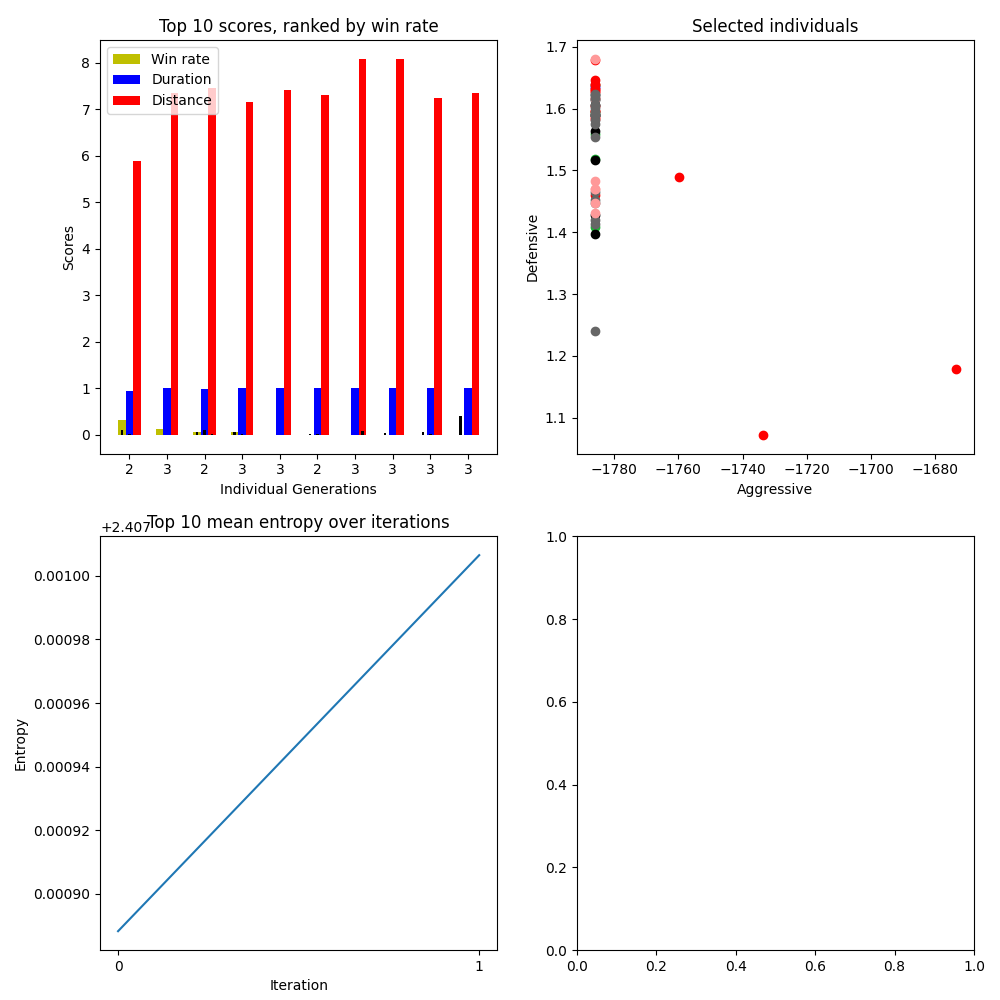
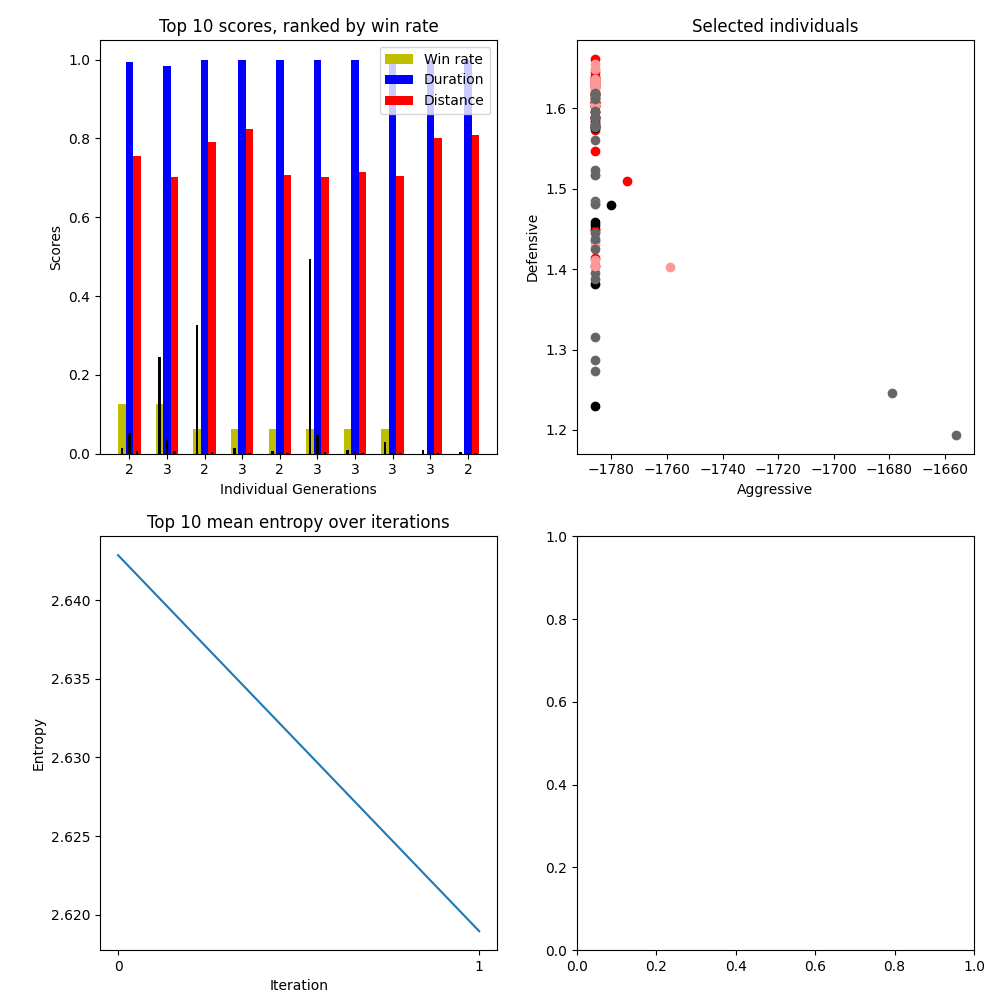
3-19

diff --git a/optimization.py b/optimization.py
@@ -19,24 +19,40 @@ def rankmin(x):
     csum[1:] = counts[:-1].cumsum()
     return csum[inv]
 
-def is_dominated(x_scores, y_scores):
+
+def is_dominated(x_scores, y_scores, epsilon):
     assert len(x_scores) == len(y_scores)
 
     for i in range(len(x_scores)):
+        if i != 0:
+            eps = 0
+        else:
+            eps = epsilon
+
         if x_scores[i] > y_scores[i]:
-            return True
-        elif x_scores[i] < y_scores[i]:
             return False
+        elif x_scores[i] * (1 + eps) < y_scores[i]:
+            return True
+
     return False
 
 
-def nd_sort(scores, n_objectives):
+def argsort_with_order(seq):
+    '''
+    supposing there is only one sub objective
+    '''
+
+    with_fields = np.core.records.fromarrays(seq.transpose(), names='x, y', formats='f8, f8')
+    return list(np.argsort(with_fields, order=('x', 'y')))
+
+
+def nd_sort(scores, n_objectives, epsilon):
     """
     builds frontiers, descending sort
     """
     frontiers = [[]]
     assert n_objectives > 1
-    indexes = np.array(list(reversed(np.argsort(scores[0, :, 0]))))
+    indexes = np.array(list(reversed(argsort_with_order(scores[0, :, :]))))
 
     for index in indexes:
         x = len(frontiers)
@@ -45,8 +61,8 @@ def nd_sort(scores, n_objectives):
             dominated = False
             for solution in frontiers[k]:
                 tmp = True
-                for objective_num in range(1, n_objectives):
-                    if is_dominated(scores[objective_num][index], scores[objective_num][solution]):
+                for objective_num in range(0, n_objectives):
+                    if is_dominated(scores[objective_num][index], scores[objective_num][solution], epsilon):
                         tmp = False
                         break
                 dominated = tmp

diff --git a/collector.py b/collector.py
@@ -29,7 +29,7 @@ from datetime import datetime
 class EXIT(Exception) : pass
 
 class Collector:
-    def __init__(self, env_id, size, n_server, n_send, checkpoint_dir='checkpoint/', start_from=None,
+    def __init__(self, env_id, size, n_server, n_send, epsilon, checkpoint_dir='checkpoint/', start_from=None,
                  client_mode=False, ip=None):
         self.client_mode = client_mode
 
@@ -52,6 +52,7 @@ class Collector:
             self.action_dim = dummy.action_space.n
             self.goal_dim = self.util.goal_dim
             self.n_send = n_send
+            self.epsilon = epsilon
             self.behavior_functions = self.util.behavior_functions
             self.size = size
             self.ckpt_dir = checkpoint_dir
@@ -140,7 +141,7 @@ class Collector:
             for index in range(len(offspring)):
                 scores[objective_num, index+self.population.size] = function(offspring[index])
 
-        frontiers = nd_sort(scores, n_behavior)
+        frontiers = nd_sort(scores, n_behavior, epsilon)
         selected = []
         i = 0
         sparse_select = None

diff --git a/main.py b/main.py
@@ -21,12 +21,12 @@ os.environ["CUDA_VISIBLE_DEVICES"] = "-1"
 
 
 def RUN(env='Boxing-ramDeterministic-v4', client_mode=False, collector_ip=None, size=15, n_server=4, n_send=1,
-        checkpoint_dir='checkpoint/', start_from=None):
+        epsilon=0.02, checkpoint_dir='checkpoint/', start_from=None):
 
     if start_from == 'latest':
         pass
 
-    collector = Collector(env, size, n_server, n_send, checkpoint_dir, start_from, client_mode, collector_ip)
+    collector = Collector(env, size, n_server, n_send, epsilon, checkpoint_dir, start_from, client_mode, collector_ip)
 
     collector.main_loop()
 

diff --git a/observe.py b/observe.py
@@ -49,7 +49,7 @@ class PopulationObserver:
             observation = np.concatenate([observation, observation])
             while not done:
                 self.env.render()
-                action, dist_ = self.player.pi.policy.get_action(observation, return_dist=True, eval=True)
+                action = self.player.pi.policy.get_action(observation, eval=True)
                 observation_, _, done, _ = self.env.step(action)
                 observation_ = self.util.preprocess(observation_)
                 observation = np.concatenate([observation[len(observation) // 2:], observation_])

diff --git a/evolution_server.py b/evolution_server.py
@@ -25,7 +25,7 @@ import socket
 
 class EvolutionServer:
 
-    def __init__(self, ID, env_id='Pong-ram-v0', collector_ip=None, traj_length=128, batch_size=1, max_train=10,
+    def __init__(self, ID, env_id='Pong-ram-v0', collector_ip=None, traj_length=128, batch_size=1, max_train=0.1,
                  early_stop=7, round_length=200, min_eval=5000, min_games=15, subprocess=True, mutation_rate=0.5):
         if collector_ip is None:
             self.ip = socket.gethostbyname(socket.gethostname())
